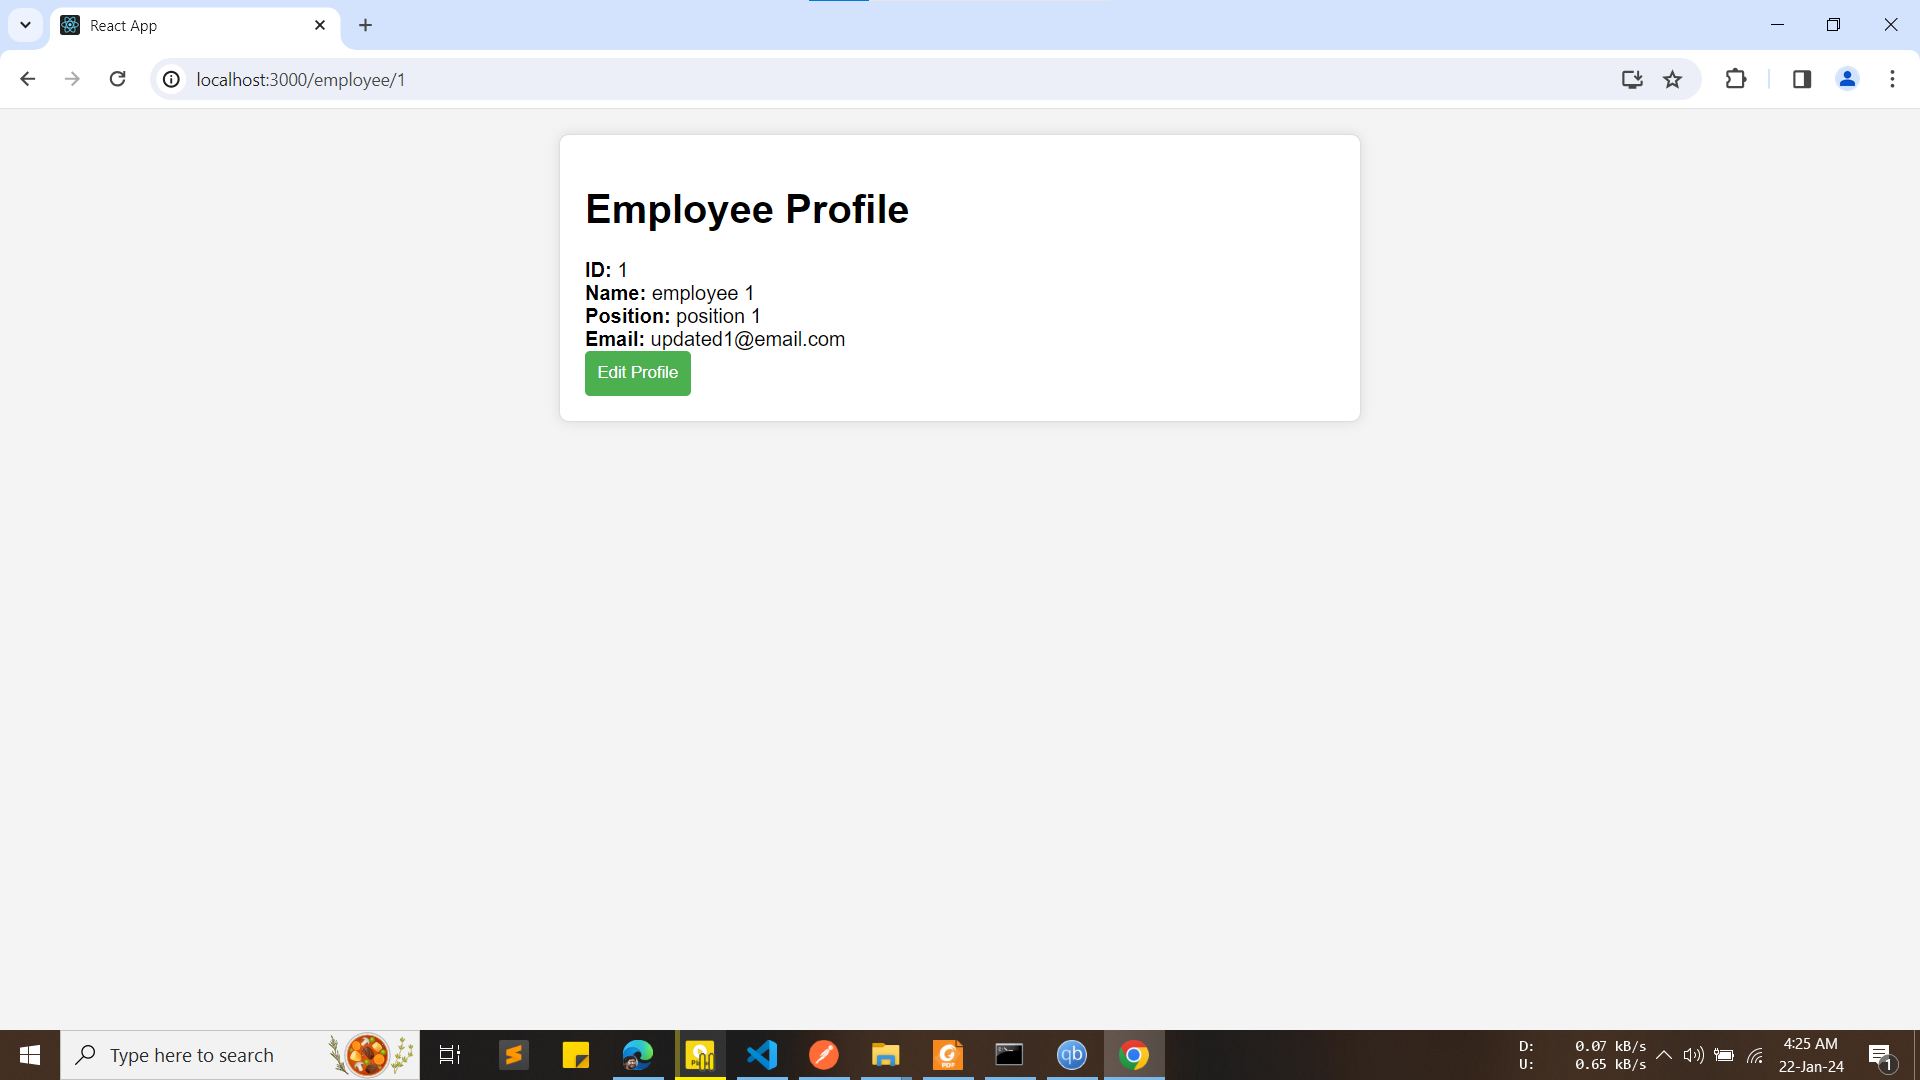
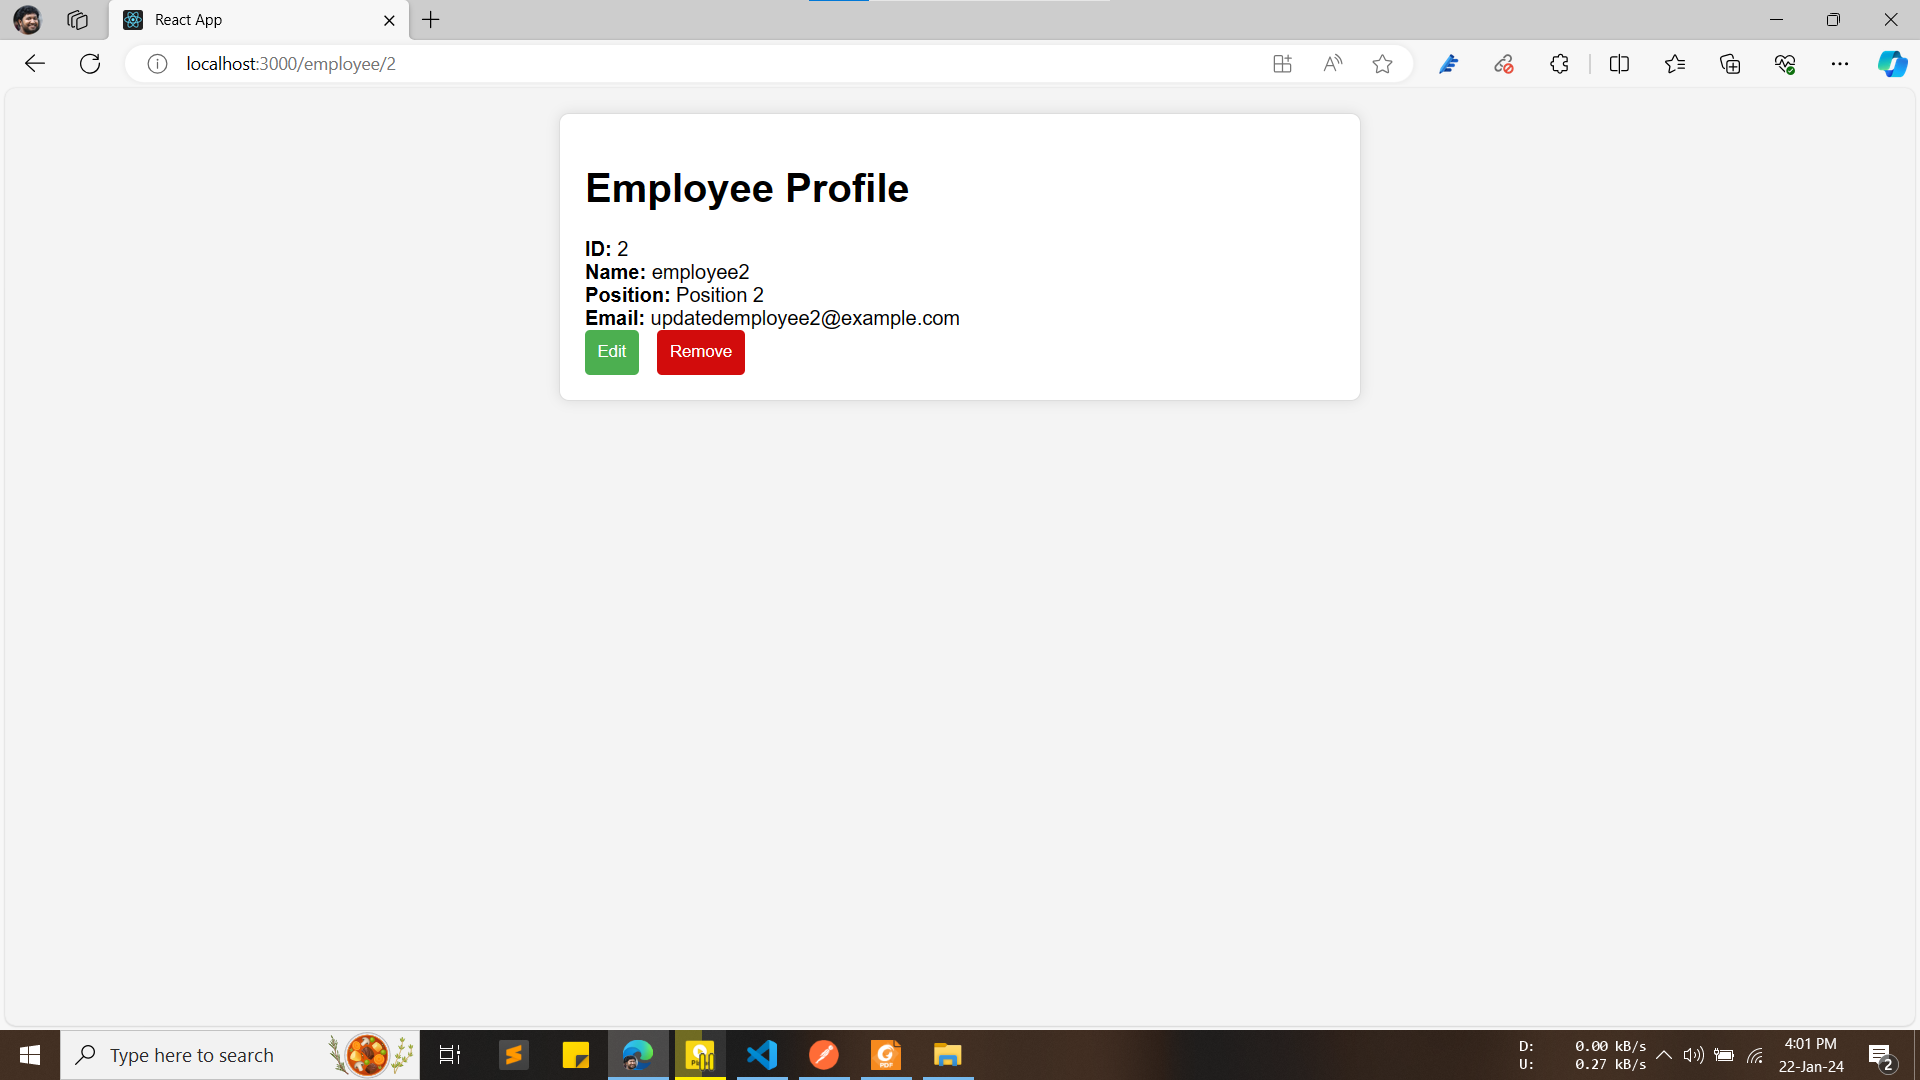
add and remove

diff --git a/client/src/pages/AddEmployee.js b/client/src/pages/AddEmployee.js
@@ -1,0 +1,95 @@
+import React, { useState } from "react";
+import { useNavigate } from "react-router-dom";
+import "../styles/edit-styles.css";
+
+const AddEmployee = () => {
+  const navigate = useNavigate();
+  const [formData, setFormData] = useState({
+    name: "",
+    email: "",
+    position: "",
+  });
+
+  const handleChange = (e) => {
+    const { name, value } = e.target;
+    setFormData({ ...formData, [name]: value });
+  };
+
+  const handleSubmit = async (e) => {
+    e.preventDefault();
+
+    try {
+      const response = await fetch("/api/v1/employees/", {
+        method: "POST",
+        headers: {
+          "Content-Type": "application/json",
+        },
+        body: JSON.stringify(formData),
+      });
+
+      if (response.ok) {
+        // Add logic for successful submission
+        console.log("Employee added successfully!");
+        // Navigate to "/employees" with a success message
+        navigate("/employees", {
+          state: { successMessage: "Employee added successfully!" },
+        });
+      } else {
+        // Add logic for unsuccessful submission
+        console.error("Error adding employee:", response.statusText);
+        // Navigate to "/employees" with an error message
+        navigate("/employees", {
+          state: { errorMessage: "Failed to add employee." },
+        });
+      }
+    } catch (error) {
+      console.error("Error adding employee:", error.message);
+      // Navigate to "/employees" with an error message
+      navigate("/employees", {
+        state: { errorMessage: "Failed to add employee." },
+      });
+    }
+  };
+
+  return (
+    <div>
+      <h2>Add Employee</h2>
+      <form onSubmit={handleSubmit}>
+        <label>
+          Name:
+          <input
+            type="text"
+            name="name"
+            value={formData.name}
+            onChange={handleChange}
+            required
+          />
+        </label>
+        <label>
+          Position:
+          <input
+            type="text"
+            name="position"
+            value={formData.position}
+            onChange={handleChange}
+            required
+          />
+        </label>
+        <label>
+          Email:
+          <input
+            type="email"
+            name="email"
+            value={formData.email}
+            onChange={handleChange}
+            required
+          />
+        </label>
+        {/* Add more input fields for additional information */}
+        <button type="submit">Add Employee</button>
+      </form>
+    </div>
+  );
+};
+
+export default AddEmployee;

diff --git a/client/src/pages/EmployeeProfile.js b/client/src/pages/EmployeeProfile.js
@@ -26,10 +26,36 @@ const EmployeeProfile = () => {
   }, [id]);
 
   const handleEditClick = () => {
-    // console.log("Edit button clicked for employee ID:", id);
-
     // Navigate to the edit page with the employee ID
     navigate(`/${id}/edit`);
+  };
+
+  const handleRemoveClick = async () => {
+    try {
+      const response = await fetch(`/api/v1/employees/${id}`, {
+        method: "DELETE",
+      });
+
+      if (response.ok) {
+        console.log("Employee removed successfully!");
+        // Navigate to the employees list page with a success message
+        navigate("/employees", {
+          state: { successMessage: "Employee removed successfully!" },
+        });
+      } else {
+        console.error("Error removing employee:", response.statusText);
+        // Navigate to the employees list page with an error message
+        navigate("/employees", {
+          state: { errorMessage: "Failed to remove employee." },
+        });
+      }
+    } catch (error) {
+      console.error("Error removing employee:", error.message);
+      // Navigate to the employees list page with an error message
+      navigate("/employees", {
+        state: { errorMessage: "Failed to remove employee." },
+      });
+    }
   };
 
   if (!employee) {
@@ -54,9 +80,14 @@ const EmployeeProfile = () => {
         </div>
         {/* Add more details as needed */}
       </div>
-      <button onClick={handleEditClick} className="edit-button">
-        Edit Profile
-      </button>
+      <div>
+        <button onClick={handleEditClick} className="edit-button">
+          Edit
+        </button>
+        <button onClick={handleRemoveClick} className="remove-button">
+          Remove
+        </button>
+      </div>
     </div>
   );
 };

diff --git a/server/src/employees/controller.js b/server/src/employees/controller.js
@@ -1,10 +1,47 @@
 const pool = require("../../db");
 const queries = require("./queries");
 
+const addEmployee = (req, res) => {
+  const { name, email, position } = req.body;
+  // check if the email exists already
+  pool.query(queries.checkEmailExists, [email], (error, results) => {
+    if (error) throw error;
+    if (results.rows.length) {
+      res.send("Email already exists.");
+      return;
+    }
+    // add employee to db
+    pool.query(
+      queries.addEmployee,
+      [name, email, position],
+      (error, results) => {
+        if (error) throw error;
+        res.status(201).send("Employee added successfully");
+      }
+    );
+  });
+};
+
 const getEmployees = (req, res) => {
   pool.query(queries.getEmployees, (error, results) => {
     if (error) throw error;
     res.status(200).json(results.rows);
+  });
+};
+
+const removeEmployee = (req, res) => {
+  const id = parseInt(req.params.id);
+  pool.query(queries.getEmployeeById, [id], (error, results) => {
+    if (error) throw error;
+    const noEmployeeFound = !results.rows.length;
+    if (noEmployeeFound) {
+      res.send("Does not exist.");
+      return;
+    }
+    pool.query(queries.removeEmployee, [id], (error, results) => {
+      if (error) throw error;
+      res.status(200).send("Employee removed successfully");
+    });
   });
 };
 
@@ -44,7 +81,9 @@ const updateEmployee = (req, res) => {
 };
 
 module.exports = {
+  addEmployee,
   getEmployees,
   getEmployeeById,
   updateEmployee,
+  removeEmployee,
 };

diff --git a/server/src/employees/queries.js b/server/src/employees/queries.js
@@ -2,18 +2,21 @@ const getEmployees = "SELECT * FROM employees";
 
 const getEmployeeById = "SELECT * FROM employees WHERE id = $1";
 
-// const checkEmailExists = "SELECT s FROM students s WHERE s.email = $1";
+const checkEmailExists = "SELECT e FROM employees e WHERE e.email = $1";
 
-// const addStudent =
-//   "INSERT INTO students (name, email, age, dob) VALUES ($1, $2, $3, $4)";
+const addEmployee =
+  "INSERT INTO employees (name, email, position) VALUES ($1, $2, $3)";
 
-// const removeStudent = "DELETE FROM students WHERE id = $1";
+const removeEmployee = "DELETE FROM employees WHERE id = $1";
 
 const updateEmployee =
   "UPDATE employees SET name = $1, email = $2, position = $3 WHERE id = $4";
 
 module.exports = {
   getEmployees,
+  addEmployee,
+  checkEmailExists,
   getEmployeeById,
   updateEmployee,
+  removeEmployee,
 };

diff --git a/client/src/App.js b/client/src/App.js
@@ -5,6 +5,7 @@ import Home from "./pages/Home";
 import EmployeeList from "./pages/EmployeeList";
 import EmployeeProfile from "./pages/EmployeeProfile";
 import EditEmployee from "./pages/EditEmployee";
+import AddEmployee from "./pages/AddEmployee";
 
 const App = () => {
   return (
@@ -15,6 +16,7 @@ const App = () => {
         <Route path="/employees" element={<EmployeeList />} />
         <Route path="/employee/:id" element={<EmployeeProfile />} />
         <Route path="/:id/edit" element={<EditEmployee />} />
+        <Route path="/employees/add" element={<AddEmployee />} />
         {/* <Route path="/edit/:id" element={EditEmployee} />{" "} */}
         {/* New route for editing */}
       </Routes>

diff --git a/client/src/styles/profile-styles.css b/client/src/styles/profile-styles.css
@@ -24,9 +24,25 @@
   border: none;
   border-radius: 4px;
   cursor: pointer;
+  margin-right: 15px;
 }
 
 /* Hover effect for the edit button */
 .edit-button:hover {
   background-color: #45a049;
+}
+
+/* Style for the edit button */
+.remove-button {
+  padding: 10px;
+  background-color: #d20c0c;
+  color: #fff;
+  border: none;
+  border-radius: 4px;
+  cursor: pointer;
+}
+
+/* Hover effect for the edit button */
+.remove-button:hover {
+  background-color: #c72a2a;
 }

diff --git a/client/src/pages/EmployeeList.js b/client/src/pages/EmployeeList.js
@@ -1,10 +1,16 @@
 import React from "react";
+import { Link } from "react-router-dom";
 import EmployeeTable from "../components/EmployeeTable";
 
 const EmployeeList = () => {
   return (
     <div>
       <h1>Employee List</h1>
+      <div>
+        <Link to="/employees/add" className="add-button">
+          <button>Add Employee</button>
+        </Link>
+      </div>
       <EmployeeTable />
     </div>
   );

diff --git a/server/src/employees/routes.js b/server/src/employees/routes.js
@@ -7,6 +7,10 @@ router.get("/", controller.getEmployees);
 
 router.get("/:id", controller.getEmployeeById);
 
+router.post("/", controller.addEmployee);
+
 router.put("/:id", controller.updateEmployee);
+
+router.delete("/:id", controller.removeEmployee);
 
 module.exports = router;

diff --git a/README.md b/README.md
@@ -27,3 +27,6 @@ To run the client:
 
 #### Employee Profile Page After Editing
 ![employee-profile-page-after-edit](https://github.com/Y3454R/project/blob/main/Screenshots/employee-profile-page-after-edit.png)
+
+#### Employee Profile Page After Editing
+![employee-profile-page-after-edit](https://github.com/Y3454R/project/blob/main/Screenshots/add-employee.png)
